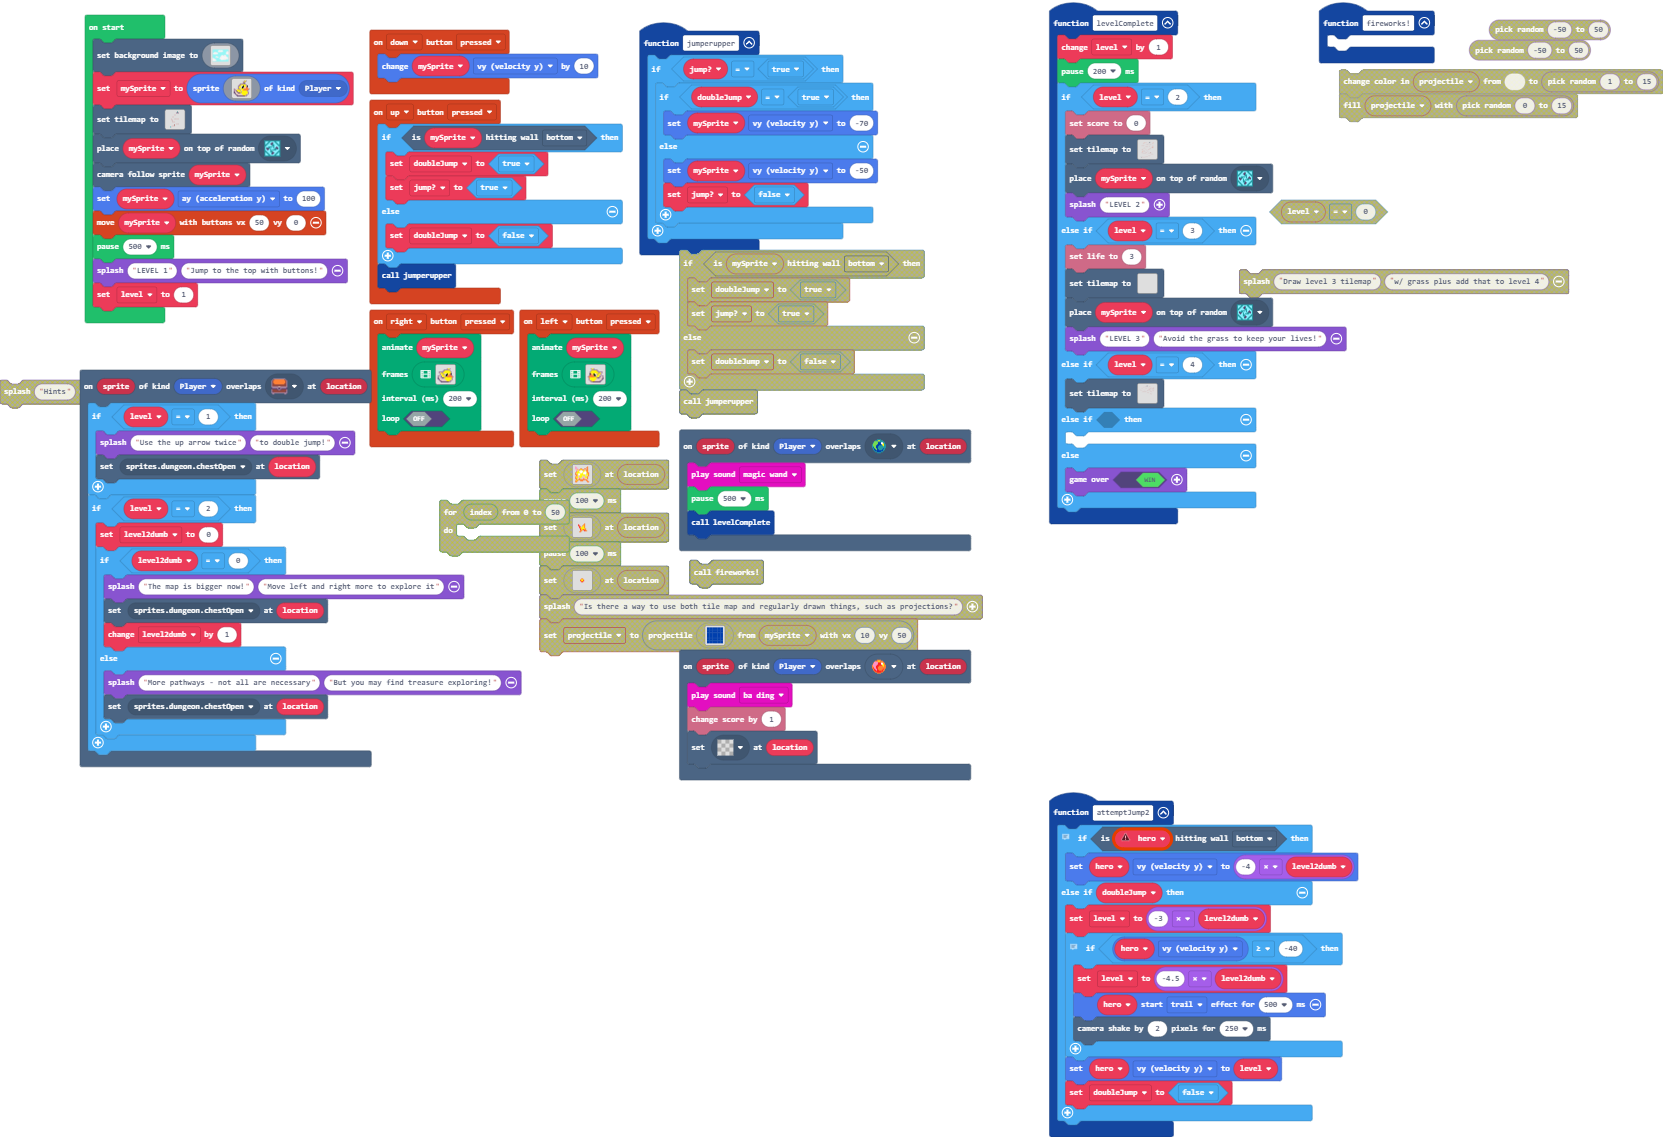
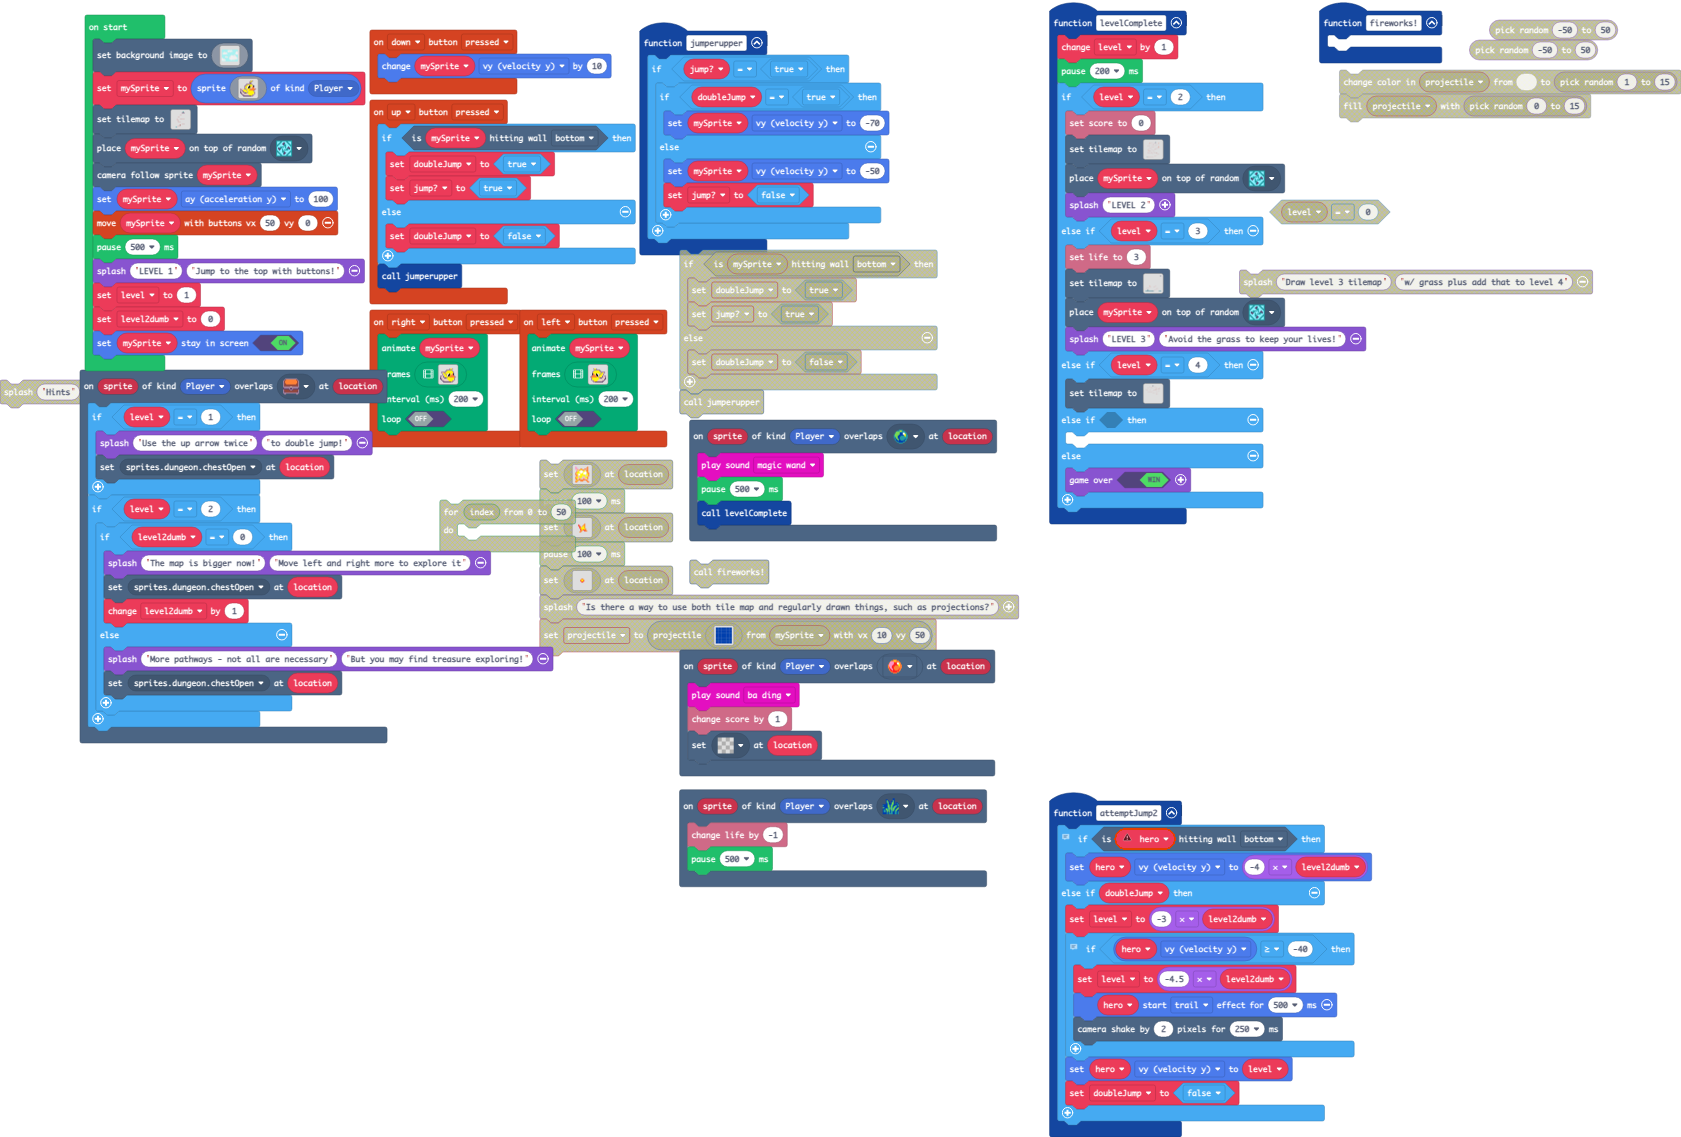
Update main.blocks, main.ts, tilemap.g.jres, tilemap.g.ts

diff --git a/tilemap.g.ts b/tilemap.g.ts
@@ -116,27 +116,8 @@ namespace myTiles {
 . . 2 2 2 . . . . . 
 . 2 . . . . . . . . 
 `, [myTiles.transparency16,sprites.dungeon.collectibleBlueCrystal,sprites.dungeon.collectibleInsignia,sprites.dungeon.floorDarkDiamond,sprites.dungeon.floorLight4,sprites.dungeon.floorLightMoss,sprites.dungeon.floorLight5,sprites.dungeon.chestClosed], TileScale.Sixteen);
-            case "level7":
-            case "level7":return tiles.createTilemap(hex`1000100000000000000000000000000000000000000000000000000000000000000000000000000000000000000000000000000000000000000000000000000000000000000000000000000000000000000000000000000000000000000000000000000000000000000000000000000000000000000000000000000000000000000000000000000000000000000000000000000000000000000000000000000000000000000000000000000000000000000000000000000000000000000000000000000000000000000000000000000000000000000000000000000000000000000000000000000000000000000000000000000000000000000000000000000000000000`, img`
-. . . . . . . . . . . . . . . . 
-. . . . . . . . . . . . . . . . 
-. . . . . . . . . . . . . . . . 
-. . . . . . . . . . . . . . . . 
-. . . . . . . . . . . . . . . . 
-. . . . . . . . . . . . . . . . 
-. . . . . . . . . . . . . . . . 
-. . . . . . . . . . . . . . . . 
-. . . . . . . . . . . . . . . . 
-. . . . . . . . . . . . . . . . 
-. . . . . . . . . . . . . . . . 
-. . . . . . . . . . . . . . . . 
-. . . . . . . . . . . . . . . . 
-. . . . . . . . . . . . . . . . 
-. . . . . . . . . . . . . . . . 
-. . . . . . . . . . . . . . . . 
-`, [myTiles.transparency16], TileScale.Sixteen);
             case "level1":
[2 lines of base64/hex data omitted]
 ..........................
 ..........................
 ........2222....222.......
@@ -158,7 +139,7 @@ namespace myTiles {
 ......2.....2.............
 .....2222....2............
 ..............2...........
-..2.......2...............
+..2.......2....2..........
 .222.....222..............
 ...2222222....222222......
 ..........................
@@ -170,6 +151,41 @@ namespace myTiles {
 .........22222............
 ...222222.................
 `, [myTiles.transparency16,sprites.dungeon.floorLight4,sprites.dungeon.floorLightMoss,sprites.dungeon.floorLight5,sprites.dungeon.floorDarkDiamond,sprites.dungeon.collectibleBlueCrystal,sprites.dungeon.chestClosed,sprites.dungeon.collectibleInsignia,sprites.dungeon.collectibleRedCrystal], TileScale.Sixteen);
+            case "level7":
+            case "level7":return tiles.createTilemap(hex`2000200000000000000000000000000000000000000000000000000000000000000002000000000000000000000000000000000000000000000000000000000000030303000000000000000000000000000000000000000000000000000000000000000000000000000000000000000000000000000000000000000000000000000000000000000000000000000000000000000000000000000000000000000000000000000000000000000000000000000000000000000000000000000000000000000000000000000000000000000000000000000000000000000000000000000000000000000000000000000000000000000000000000000000000000000000000000000000000000000000000000000000000000000000000000000000000000000000000000000000000000000000000000000000000000000000000000000000000000000000000000000000000000000000000000000000000000000000000000000000000000000000000000000000000000000000000000000000000000000000000000000000000000000000000000000000000000000000000000000000000000000000000000000000000000000000000000000000000000000000000000000000000000000000000000000000000000000000000000000000000000000000000000000000000000000000000000000000000000000000000000000000000000000000000000000000000000000000000000000000000000000000000000000000000000000000000000000000000000000000000000000000000000000000000000000000000000000000000000000000000000000000000000000000000000000000000000000000000000000000000000000000000000000000000000000000000000000000050000000000000000000000000000000000000000000000000000000000000004000000000000000000040404000000000000000000000000000000000000000000000000000000000000000000000000000000000000000000000000000004040404000000000404040400000000000000000000000000000000000000000000000000000000000000000000000400000000000000000000000404040404000000000000000000000000000000000004000000000000000000000000000000000000000000000000000000000000000000000000000000040400000000000000000000000000000000000004040404000000000000000000000000040404000000000000000000000000000000000000000000000000000000000606000000000000000000000000040404000000000000000000000000000404040400000000000000040404040000000000000000000000000000000106060606060606060606060606060606000000000000000000000606060606`, img`
+................................
+.............................222
+................................
+................................
+................................
+................................
+................................
+................................
+................................
+................................
+................................
+................................
+................................
+................................
+................................
+................................
+................................
+................................
+................................
+................................
+................................
+.........2.........222..........
+................................
+........2222....2222............
+.......................2........
+...22222.................2......
+................................
+.22..................2222.......
+.....222........................
+..................222...........
+..2222.......2222...............
+................................
+`, [myTiles.transparency16,sprites.dungeon.collectibleInsignia,sprites.dungeon.collectibleBlueCrystal,sprites.dungeon.floorDarkDiamond,sprites.dungeon.floorLight4,sprites.dungeon.collectibleRedCrystal,sprites.swamp.swampTile1], TileScale.Sixteen);
         }
         return null;
     })

diff --git a/main.ts b/main.ts
@@ -24,6 +24,10 @@ function attemptJump2 () {
         doubleJump = false
     }
 }
+scene.onOverlapTile(SpriteKind.Player, sprites.swamp.swampTile1, function (sprite, location) {
+    info.changeLifeBy(-1)
+    pause(500)
+})
 controller.left.onEvent(ControllerButtonEvent.Pressed, function () {
     animation.runImageAnimation(
     mySprite,
@@ -155,7 +159,6 @@ scene.onOverlapTile(SpriteKind.Player, sprites.dungeon.chestClosed, function (sp
         tiles.setTileAt(location, sprites.dungeon.chestOpen)
     }
     if (level == 2) {
-        level2dumb = 0
         if (level2dumb == 0) {
             game.splash("The map is bigger now!", "Move left and right more to explore it")
             tiles.setTileAt(location, sprites.dungeon.chestOpen)
@@ -308,9 +311,9 @@ scene.onOverlapTile(SpriteKind.Player, sprites.dungeon.collectibleRedCrystal, fu
     info.changeScoreBy(1)
     tiles.setTileAt(location, assets.tile`transparency16`)
 })
-let level2dumb = 0
 let jump = false
 let doubleJump = false
+let level2dumb = 0
 let level = 0
 let mySprite: Sprite = null
 scene.setBackgroundImage(img`
@@ -461,3 +464,5 @@ controller.moveSprite(mySprite, 50, 0)
 pause(500)
 game.splash("LEVEL 1", "Jump to the top with buttons!")
 level = 1
+level2dumb = 0
+mySprite.setStayInScreen(true)
